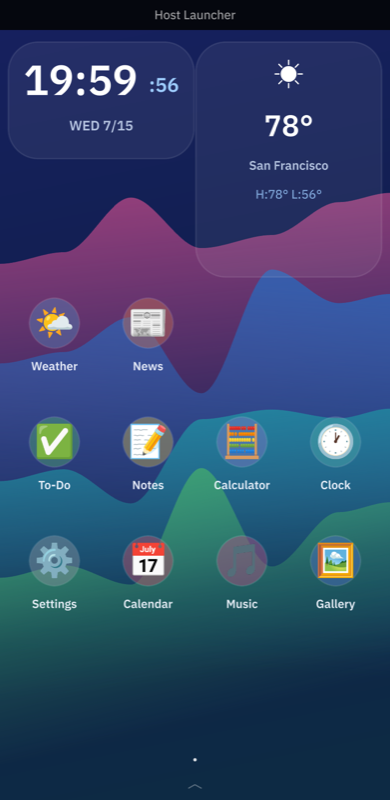
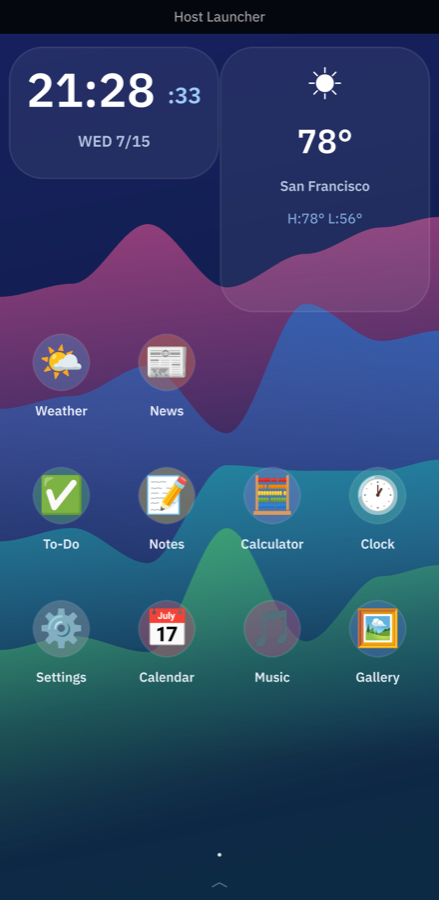
fix mini-app rendering and edit-mode badges, add a sandbox probe app
- on_render views (news, weather, gallery, calendar) weren't rendering until
  poked, since a plain View's on_render doesn't auto-run on first draw -- they
  now kick off via a boot start_timeout.
- edit-mode remove badges now sit on the icon tile corner like Android, and
  newly created icons/tiles pick up the current edit chrome instead of
  appearing bare.
- added a "Sandbox" mini-app that checks fs/process/network are actually
  blocked inside its isolate.
- rewrote the To-Do app to the pre-allocated fixed-slot pattern (dynamic
  for-render doesn't re-render when the array grows) using the new
  ui.set_visible.

diff --git a/src/launcher/home_pager.rs b/src/launcher/home_pager.rs
@@ -43,29 +43,36 @@ script_mod! {
             spacing: 5
             align: Align{x: 0.5, y: 0.5}
             tile := LauncherIconTile{
-                glyph := LauncherIconGlyph{}
-            }
-            name := LauncherIconName{}
-            badge := RoundedView{
-                visible: false
-                width: 20
-                height: 20
-                align: Align{x: 0.5, y: 0.5}
-                show_bg: true
-                draw_bg +: {
-                    color: #x2a3040ee
-                    border_color: #xffffff44
-                    border_size: 1.0
-                    border_radius: 10.0
+                flow: Overlay
+                View{
+                    width: Fill
+                    height: Fill
+                    align: Align{x: 0.5, y: 0.5}
+                    glyph := LauncherIconGlyph{}
                 }
-                Label{
-                    text: "×"
-                    draw_text +: {
-                        color: #xffffffdd
-                        text_style: theme.font_bold{font_size: 12}
+                badge := RoundedView{
+                    visible: false
+                    width: 20
+                    height: 20
+                    margin: Inset{top: -5, left: -5}
+                    align: Align{x: 0.5, y: 0.5}
+                    show_bg: true
+                    draw_bg +: {
+                        color: #x2a3040ee
+                        border_color: #xffffff44
+                        border_size: 1.0
+                        border_radius: 10.0
+                    }
+                    Label{
+                        text: "×"
+                        draw_text +: {
+                            color: #xffffffdd
+                            text_style: theme.font_bold{font_size: 12}
+                        }
                     }
                 }
             }
+            name := LauncherIconName{}
         }
 
         WidgetTile := RoundedView{
@@ -490,6 +497,9 @@ impl HomePager {
             draw_bg +: { color: #(tint) }
         });
         cx.widget_tree_insert_child_deep(self.uid, LiveId::from_str(app_id), icon.clone());
+        // New children need the current edit-mode chrome applied explicitly;
+        // sync_edit_visuals only touches children on a mode *change*.
+        icon.widget(cx, ids!(badge)).set_visible(cx, self.edit_visuals_applied);
         self.icons.insert(app_id.clone(), icon.clone());
         Some(icon)
     }
@@ -522,6 +532,9 @@ impl HomePager {
         {
             tile.widget(cx, ids!(splash)).set_text(cx, &widget_source);
         }
+        tile.widget(cx, ids!(badge)).set_visible(cx, self.edit_visuals_applied);
+        tile.widget(cx, ids!(resize_handle))
+            .set_visible(cx, self.edit_visuals_applied);
         self.tiles.insert(instance, tile.clone());
         Some(tile)
     }
